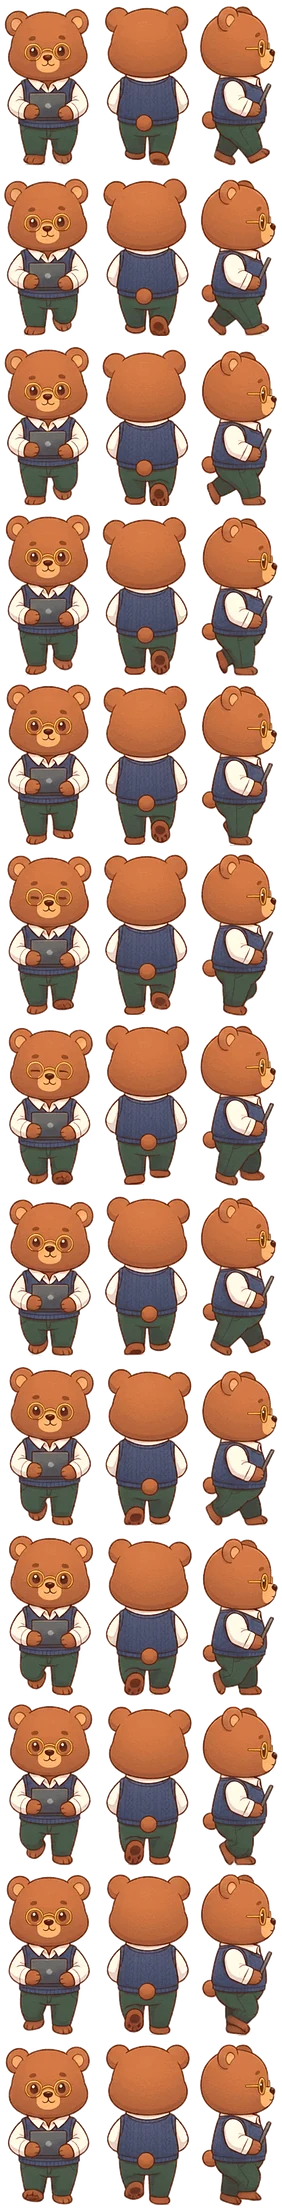
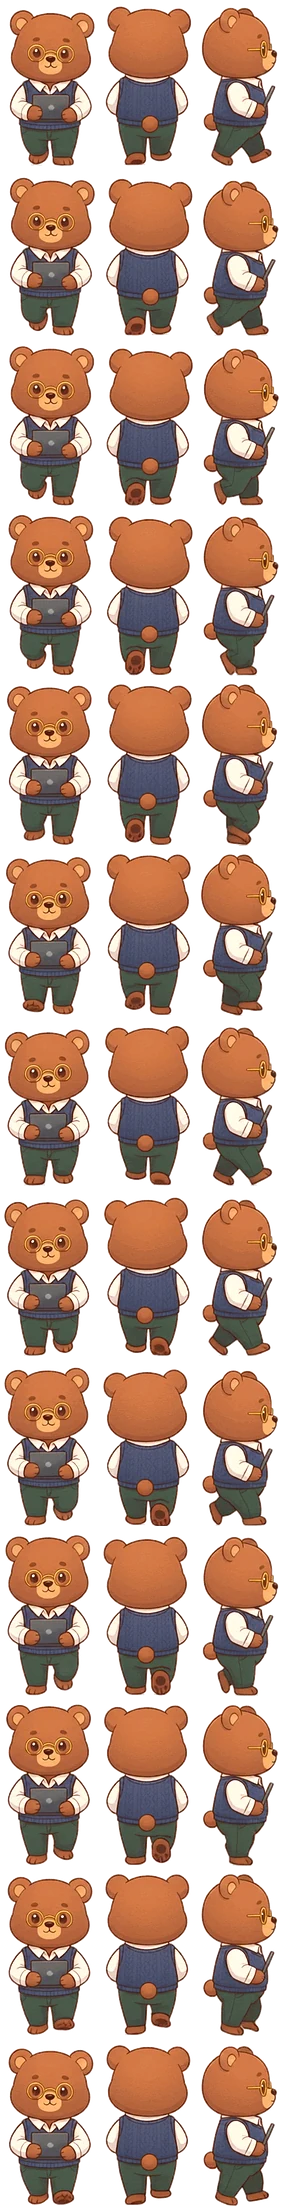
걷기 GIF가 처음으로 돌아갈 때 멈칫하던 문제 고치기: GIF 안에서 끝과 시작이 이어지는 12~14장 구간을 찾아 반복(캐릭터 윤곽만 비교), 선생님 6마리 모두 다시 만듦

diff --git a/js/data/teacher-sprites.js b/js/data/teacher-sprites.js
@@ -11,25 +11,25 @@ window.MP_TEACHER_SPRITES = {
     "down": [
      4,
      4,
-     90,
+     91,
      162,
-     44.0,
+     46.0,
      162
     ],
     "right": [
-     200,
+     201,
      4,
      78,
      162,
-     38.0,
+     39.0,
      162
     ],
     "up": [
-     102,
+     103,
      4,
      90,
      162,
-     45.0,
+     44.0,
      162
     ]
    }
@@ -71,35 +71,35 @@ window.MP_TEACHER_SPRITES = {
  },
  "fox": {
   "anim": {
-   "frames": 30,
+   "frames": 12,
    "k": 0.5,
    "ms": 100,
-   "rowH": 165,
+   "rowH": 164,
    "src": "assets/teachers/fox-anim.webp",
    "views": {
     "down": [
      4,
      4,
-     97,
-     157,
-     48.0,
-     157
+     95,
+     156,
+     51.0,
+     156
     ],
     "right": [
-     232,
+     213,
      4,
-     100,
+     109,
      156,
-     58.0,
+     67.0,
      156
     ],
     "up": [
-     109,
+     107,
      4,
-     115,
-     155,
-     60.0,
-     155
+     98,
+     154,
+     43.0,
+     154
     ]
    }
   },
@@ -140,35 +140,35 @@ window.MP_TEACHER_SPRITES = {
  },
  "hedgehog": {
   "anim": {
-   "frames": 30,
+   "frames": 14,
    "k": 0.5,
    "ms": 100,
-   "rowH": 163,
+   "rowH": 164,
    "src": "assets/teachers/hedgehog-anim.webp",
    "views": {
     "down": [
      4,
      4,
      94,
-     155,
+     156,
      46.0,
-     155
+     156
     ],
     "right": [
      209,
      4,
      99,
-     155,
-     43.0,
-     155
+     156,
+     44.0,
+     156
     ],
     "up": [
      106,
      4,
      95,
-     155,
+     156,
      47.0,
-     155
+     156
     ]
    }
   },
@@ -209,34 +209,34 @@ window.MP_TEACHER_SPRITES = {
  },
  "rabbit": {
   "anim": {
-   "frames": 30,
+   "frames": 13,
    "k": 0.5,
    "ms": 100,
-   "rowH": 164,
+   "rowH": 163,
    "src": "assets/teachers/rabbit-anim.webp",
    "views": {
     "down": [
      4,
      4,
-     80,
+     81,
      154,
-     38.5,
+     40.0,
      154
     ],
     "right": [
-     182,
+     184,
      4,
-     64,
-     156,
-     33.0,
-     156
+     65,
+     155,
+     34.0,
+     155
     ],
     "up": [
-     92,
+     93,
      4,
-     82,
+     83,
      154,
-     38.0,
+     44.0,
      154
     ]
    }
@@ -281,32 +281,32 @@ window.MP_TEACHER_SPRITES = {
    "frames": 13,
    "k": 0.5,
    "ms": 100,
-   "rowH": 169,
+   "rowH": 168,
    "src": "assets/teachers/raccoon-anim.webp",
    "views": {
     "down": [
      4,
      4,
-     98,
-     160,
-     47.0,
-     160
+     99,
+     159,
+     48.0,
+     159
     ],
     "right": [
-     219,
+     220,
      4,
      113,
-     161,
+     160,
      74.0,
-     161
+     160
     ],
     "up": [
-     110,
+     111,
      4,
      101,
-     160,
-     53.0,
-     160
+     159,
+     52.0,
+     159
     ]
    }
   },
@@ -385,32 +385,32 @@ window.MP_TEACHER_SPRITES = {
    "frames": 13,
    "k": 0.5,
    "ms": 100,
-   "rowH": 168,
+   "rowH": 170,
    "src": "assets/teachers/sheep-anim.webp",
    "views": {
     "down": [
      4,
      4,
-     94,
-     160,
+     95,
+     161,
      47.0,
-     160
+     161
     ],
     "right": [
-     207,
+     209,
      4,
-     78,
-     160,
-     38.0,
-     160
+     79,
+     162,
+     39.0,
+     162
     ],
     "up": [
-     106,
+     107,
      4,
-     93,
-     160,
+     94,
+     162,
      46.0,
-     160
+     162
     ]
    }
   },
@@ -450,4 +450,4 @@ window.MP_TEACHER_SPRITES = {
   }
  }
 };
-window.MP_TEACHER_VER = '20261120095542';
+window.MP_TEACHER_VER = '20261120100743';

diff --git a/tools/build_teachers.py b/tools/build_teachers.py
@@ -132,17 +132,27 @@ GIF_DIR = os.path.join(SRC, 'gif')
 ANIM_K = 0.5          # 걷기 프레임 크기: 서 있는 그림(몸 키 300px)의 절반. 공원에서 그리는 크기(약 60~80px)엔 충분
 
 
-def cycle_len(frames):
-    """GIF 가 같은 걸음을 되풀이하면, 첫 장과 가장 닮은 장(6장 이후)까지가 한 걸음 묶음."""
-    g = [np.asarray(f.convert('L'), dtype=float) for f in frames]
-    diffs = [np.abs(x - g[0]).mean() for x in g]
-    if len(g) < 8:
-        return len(g)
-    lim = np.median(diffs) * 0.7
-    for k in range(6, len(g) - 1):   # 가장 먼저 첫 장과 다시 닮아지는 곳(골짜기)
-        if diffs[k] < lim and diffs[k] <= diffs[k - 1] and diffs[k] <= diffs[k + 1]:
-            return k
-    return len(g)
+def best_loop(frames, minlen=10):
+    """멈칫하지 않는 반복 구간 찾기: 제미나이 GIF 는 마지막 장이 첫 장과 달라 처음으로 돌아갈 때 '툭' 튐.
+    캐릭터 윤곽만 비교해(GIF 색 얼룩은 무시) 끝 장이 시작 장과 가장 닮은 구간 [i, j) 를 고름.
+    점수 = (j 장과 i 장의 차이) / (이웃한 두 장의 보통 차이) — 1 보다 작으면 이어 붙여도 보통 한 걸음보다 매끄러움."""
+    ms = []
+    for f in frames:
+        a = np.asarray(f.convert('RGB'), dtype=float)
+        bg = np.median(np.concatenate([a[0], a[-1]]), axis=0)
+        ms.append(np.sqrt(((a - bg) ** 2).sum(axis=2)) > 30)
+    n = len(ms)
+    if n < minlen + 1:
+        return 0, n
+    d = lambda x, y: float((x ^ y).mean())
+    step = float(np.median([d(ms[k], ms[k + 1]) for k in range(n - 1)])) or 1.0
+    best = None
+    for i in range(n):
+        for j in range(i + minlen, n):
+            sc = (d(ms[j], ms[i]) / step, -(j - i))
+            if best is None or sc < best[0]:
+                best = (sc, i, j)
+    return best[1], best[2]
 
 
 def build_anim(base, path, meta):
@@ -152,8 +162,9 @@ def build_anim(base, path, meta):
     gif = Image.open(path)
     frames = [f.convert('RGB') for f in ImageSequence.Iterator(gif)]
     dur = gif.info.get('duration') or 100
-    n = cycle_len(frames)
-    frames = frames[:n]
+    i0, i1 = best_loop(frames)
+    frames = frames[i0:i1]
+    n = len(frames)
     up = 2   # 작은 GIF 는 2배로 키운 뒤 다듬어야 가장자리가 매끈함
     rgbas = []
     for f in frames:
@@ -202,7 +213,7 @@ def build_anim(base, path, meta):
     out = base + '-anim.webp'
     sheet.save(os.path.join(OUT, out), 'WEBP', quality=88, method=6)
     meta[base]['anim'] = {'src': 'assets/teachers/' + out, 'frames': n, 'ms': dur, 'rowH': rowH, 'k': ANIM_K, 'views': views}
-    print(base, 'anim', n, '프레임', dur, 'ms', sheet.size)
+    print(base, 'anim', i0, '~', i1 - 1, '프레임', n, dur, 'ms', sheet.size)
 
 
 def main():
